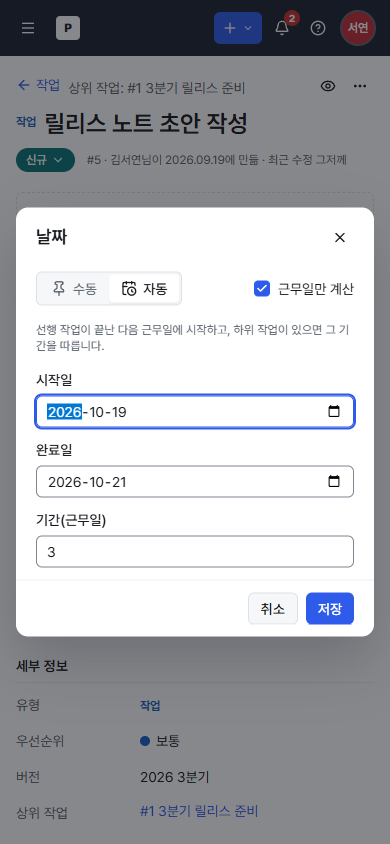
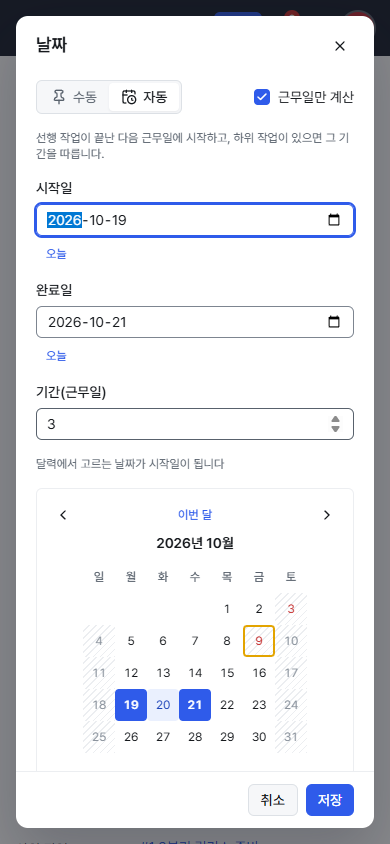
docs: filters and the two-month calendar in the log and feature matrix
Parity 74.5 (was 73.6); must-haves 60/64. Remaining must partials:
rich text, files/watchers tabs, the share notification reason and
project custom fields. Backend contract notes 14–15 cover the filter
operators and the extra filter options.

diff --git a/replica/build-log.md b/replica/build-log.md
@@ -12,6 +12,8 @@
   - 관리·프로젝트 설정(유형→워크플로→프로젝트 유형, 역할 권한 변경, 휴무일 추가 후 재계산, 초대·잠금): 통과
   - 이번 정리분(그룹 멤버, 열 메뉴·다중 정렬, 보기 이름 바꾸기, 하위 연결, 사이드바 접기·모듈 메뉴, Gantt 자동 줌, 코멘트 수정): 통과
   - 캘린더·팀 플래너(만들기, 끌기·기간 조정, 빈 날짜에서 만들기, 키보드 열기·이동, 담당 해제, 기존 작업 추가, 사람 추가·빼기, 뷰어 읽기 전용, 모듈 꺼짐): 통과
+  - 필터(엔진 20가지 경우, 여러 값 선택 포인터·키보드, 숫자·기간·N일 입력, 다른 보기로 바꾸기): 6회 연속 통과
+  - 날짜 대화상자 2개월 달력(포인터 선택, 비근무일 선택 불가, 키보드 이동·PageDown·Home/End, 오늘 링크, 마일스톤, 파생 날짜): 통과
 
 ## 화면별 상태 (2026-10-09 갱신)
 
@@ -22,11 +24,11 @@
 | S03 | 프로젝트 목록 | done | 열 설정 | - |
 | S04 | 새 프로젝트 | partial | 템플릿에서 만들기, 상위 프로젝트 지정 | 한글 이름은 식별자를 자동으로 만들 수 없어 영문일 때만 제안 |
 | S05 | 프로젝트 개요 | partial | 상태 수정, 위젯 편집 | - |
-| S06 | 작업 목록 | partial | 필터 8종(원본 약 30종), 그룹화·합계, 일괄 편집, 내보내기 | 계층 모드의 페이지 나누기(필터에 안 맞는 상위 항목을 맥락 행으로 다시 붙이기). 분할 패널이 열리면 표가 눌리지 않게 자연 폭 + 가로 스크롤로 전환. 헤더 메뉴로 다중 정렬(최대 3개)·열 이동·숨기기 추가 |
+| S06 | 작업 목록 | partial | 그룹화·합계, 일괄 편집, 내보내기 | 계층 모드의 페이지 나누기(필터에 안 맞는 상위 항목을 맥락 행으로 다시 붙이기). 분할 패널이 열리면 표가 눌리지 않게 자연 폭 + 가로 스크롤로 전환. 헤더 메뉴로 다중 정렬(최대 3개)·열 이동·숨기기 추가. 필터를 빠르게 연달아 바꾸면 URL을 거쳐 돌아오는 옛 값이 새 값을 덮어씀 → 보낸 값을 기억하는 `useLatestSent`로 해결 |
 | S07 | 분할 상세 | partial | 파일·주시자 탭, 리치 텍스트 편집기 | 패널을 열면 포커스를 패널로 옮겨야 키보드 사용자가 표 전체를 Tab으로 지나가지 않음. 코멘트 수정 추가 후 기존 테스트의 '코멘트' 라벨 찾기가 '코멘트 수정' 버튼과 겹쳐 정확 일치로 바꿈 |
 | S08 | 전체 화면 상세 | partial | S07과 같음 | 관계 탭에서 기존 작업을 하위로 연결·상위로 지정, 새 하위 작업 만들기(상위 미리 채움) |
 | S09 | 새 작업 | partial | 카테고리·사용자 정의 필드, 리치 텍스트 | Radix Select가 폼 안에서 빈 값을 보내 서버 응답 생성이 실패했고, 화면은 오류를 삼켰음 → 서버(가짜 계층) 검증 추가, 선택 상자를 항상 제어형으로, API 오류가 아닌 예외도 배너로 표시 |
-| S10 | 날짜 대화상자 | partial | 2개월 달력 그리드(브라우저 날짜 입력으로 대체), 선행·후행·하위 탭 | 세 값(시작·완료·기간) 중 마지막에 건드린 두 값을 서버에 알려야 함(`touched`) |
+| S10 | 날짜 대화상자 | partial | 선행·후행·하위 탭, 선행 작업 종료일 이전 점선 표시 | 세 값(시작·완료·기간) 중 마지막에 건드린 두 값을 서버에 알려야 함(`touched`). 2개월 달력은 두 달에 걸친 하나의 탭 정지점(roving tabindex)으로 만듦 |
 | S11 | 보기 구성 | partial | 대화상자 대신 ⋮ 메뉴(열 표시/숨김)와 열 헤더 메뉴(정렬·이동·숨기기), 보기 이름 바꾸기 | - |
 | S12 | 내보내기 | stub | 전부 | - |
 | S13 | Gantt | partial | 날짜 없는 항목에 막대 그리기, 라벨 위치 설정, 전역 Gantt | 막대 클릭과 드래그 구분(드래그 후 키보드 Enter가 무시되던 버그 수정). 휴대폰 폭에서는 목록 열을 168px로 줄여야 타임라인이 보임. 자동 줌(기본)은 보이는 기간으로 일·주·월을 고름 |
@@ -56,16 +58,14 @@
 | S37 | 계정 설정 | stub | 전부 | - |
 | M1·M2 | 모바일 목록·상세 | done | - | 스크롤 컨테이너 안의 `sr-only` 텍스트가 페이지 폭을 326px 늘리던 문제(컨테이너에 `relative` 필요) |
 
-합계: 37개 화면 중 **동작하는 화면 29개**(done 14 · partial 15), 준비 중 화면 8개(S12, S20, S21, S22, S28, S32, S34, S37). features.csv는 must 64개 중 58개 완료, 패리티 73.6/100입니다.
+합계: 37개 화면 중 **동작하는 화면 29개**(done 14 · partial 15), 준비 중 화면 8개(S12, S20, S21, S22, S28, S32, S34, S37). features.csv는 must 64개 중 60개 완료, 패리티 74.5/100입니다.
 
-### 남은 must 6개 (모두 partial)
+### 남은 must 4개 (모두 partial)
 
 | 기능 | 지금 | 남은 일 | 크기 |
 | --- | --- | --- | --- |
 | 리치 텍스트 설명·코멘트 | 평문 → 문단 HTML | 서식·목록·코드 블록 편집기(Tiptap 등), 서버 측 HTML 정리 | 중 |
 | 상세 탭: 파일·주시자 | 활동·관계 탭 | 첨부 업로드(파일 저장소가 필요해 백엔드와 같이), 주시자 목록·추가 | 중 |
-| 필터 약 30종 | 8개 필드 | 버전·카테고리·책임자·작성자·시작일·기간·완료 %·상위 작업 등 | 중 |
-| 날짜 대화상자 2개월 달력 | 브라우저 날짜 입력 | 근무일·휴무일이 보이는 2개월 그리드 | 중 |
 | 알림 이유 '공유' | 멘션·담당·책임·주시 | 작업 공유 기능 자체가 아직 없음 | 소 |
 | 프로젝트 사용자 정의 필드 | 없음 | S34 정의 화면 + 프로젝트별 활성화 + 양식·목록 열 | 대 |
 
@@ -90,12 +90,14 @@
 11. `GET /queries?view=calendar|team_planner`는 그 종류만 돌려줍니다(기본 보기 없음). `view`가 없으면 지금처럼 기본·표·Gantt 보기만 돌려줘야 캘린더가 작업 목록 사이드바에 섞이지 않습니다. 캘린더·팀 플래너는 프로젝트 안에서만 만들 수 있습니다.
 12. `POST /work-packages/query`는 필터 `{field: "dates", op: "overlaps", values: [from, to]}`를 지원해야 합니다. 시작일~완료일이 창과 겹치면 포함하고, 날짜가 하나뿐이면 그날 하루로 봅니다.
 13. 팀 플래너의 사람 목록은 저장된 보기 spec의 `assignee eq` 값입니다. 사람을 추가·빼면 `PATCH /queries/{id}`로 spec을 바로 저장합니다.
+14. 필터 필드와 연산자는 `src/api/fake/query.ts`의 `OPS` 표가 기준입니다. 맞지 않는 조합은 422입니다. 값이 아직 비어 있는 필터(값을 고르는 중)는 결과를 좁히지 않습니다. `between`은 한쪽 끝이 비어도 됩니다.
+15. `GET /work-packages/filters`는 `groups`, `roles`(프로젝트 역할, 비멤버 같은 내장 역할 제외), `projects`(그 프로젝트와 하위 프로젝트)를 함께 돌려줍니다.
 6. 가짜 계층의 규칙 구현(`src/api/fake/scheduling.ts`, `permissions.ts`, `index.ts`의 `applyPatch`·`fanOut`)을 백엔드 단위 테스트의 기대값 출처로 쓸 수 있습니다.
 
 ## 다음 순서
 
 1. ~~관리 화면~~ 완료(S24–S27, S29–S31, S33, S35, S36)
 2. ~~손이 덜 가는 partial 정리~~ 완료(다중 정렬, 열 순서, 보기 이름 바꾸기, 하위 연결, 사이드바 접기, 모듈 메뉴, Gantt 자동 줌, 코멘트 수정, 그룹 멤버)
-3. 남은 must 6개(위 표). 파일 첨부는 저장소가 있어야 해서 백엔드와 같이 하는 편이 낫습니다
+3. ~~필터 확대, 2개월 달력~~ 완료. 남은 must 4개(위 표) 중 파일 첨부·리치 텍스트는 서버와 같이 하는 편이 낫습니다
 4. ~~S17 캘린더, S18 팀 플래너~~ 완료
 5. `/replica-backend`: Spring Boot API를 만들고 `VITE_API=http`로 전환
